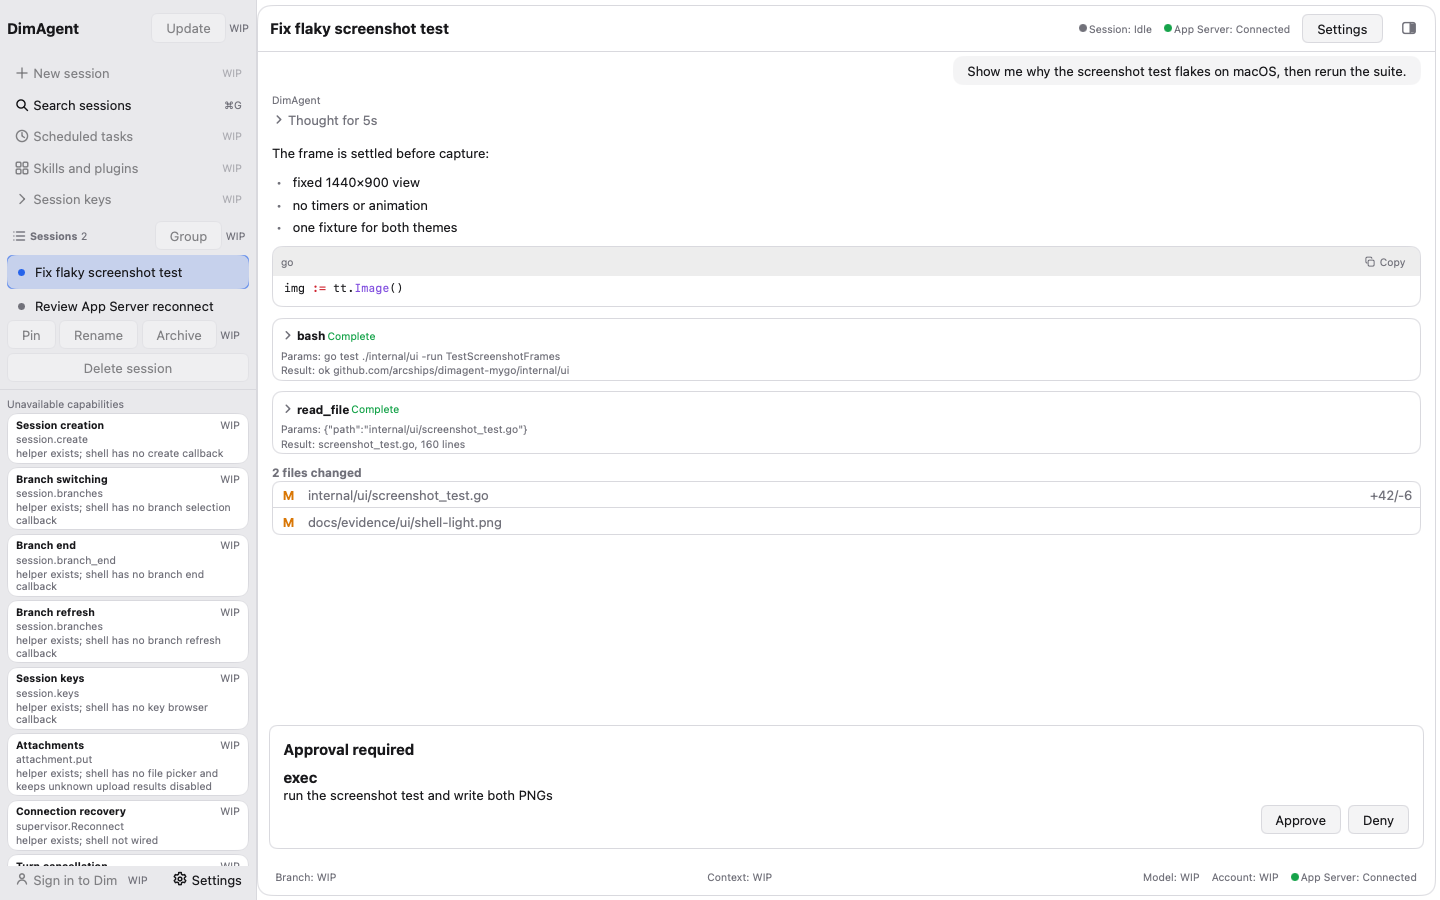
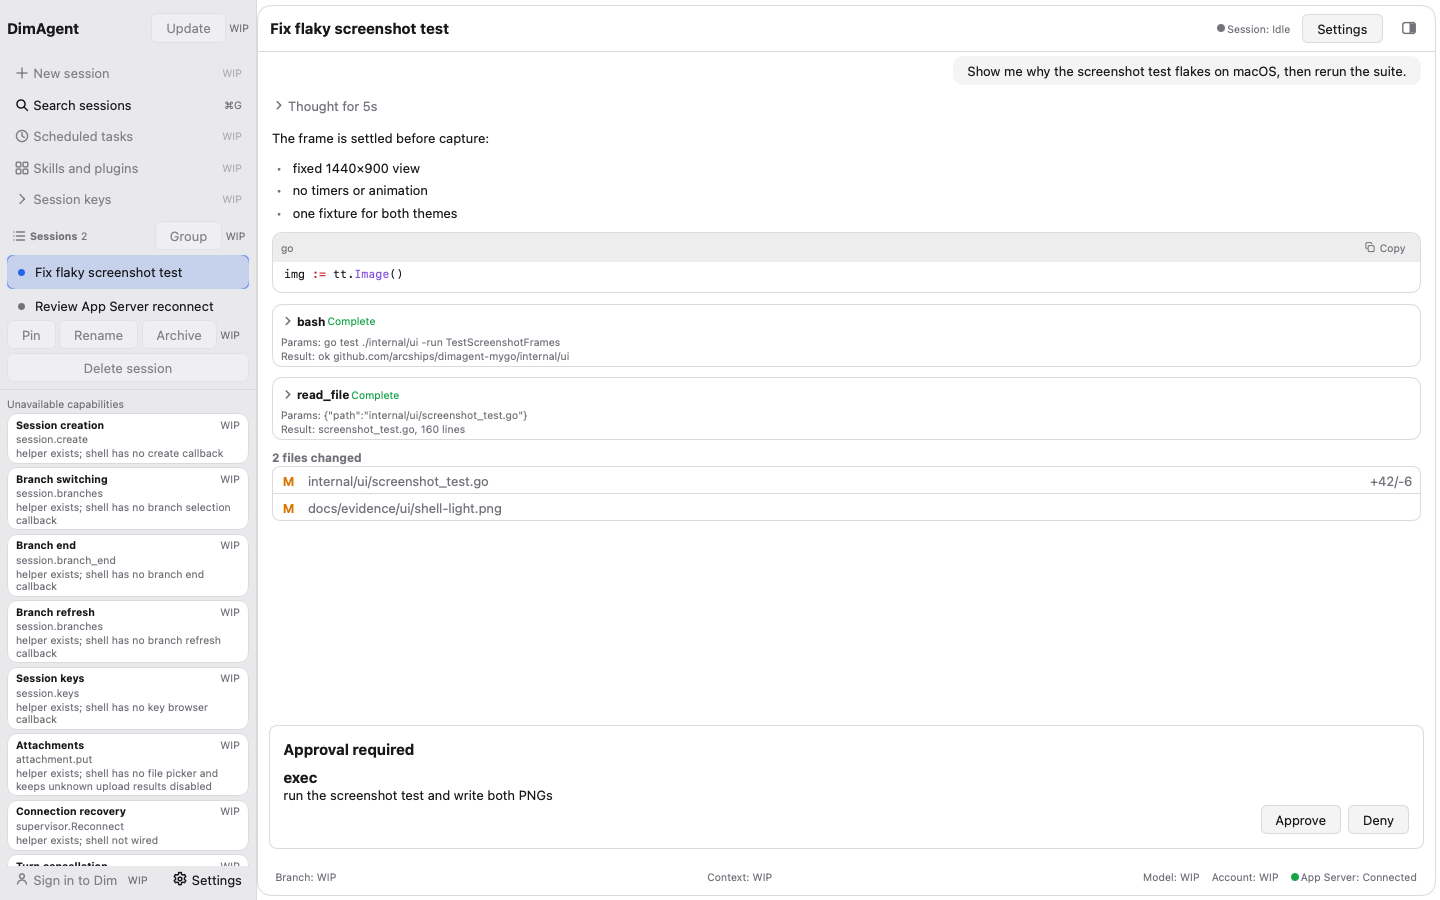
feat(ui): match the conversation chrome and assistant rows

diff --git a/internal/ui/timeline.go b/internal/ui/timeline.go
@@ -207,13 +207,13 @@ func userRow(c *ui.Context, k tokens, m Message) {
 	})
 }
 
-// assistantRow draws one assistant turn: the author line, then its blocks in
-// the projection's order. A row with no blocks falls back to Content as one
-// Markdown block, which is what a fixture and an adapter that keeps only text
-// hand it.
+// assistantRow draws one assistant turn: its blocks in the projection's order.
+// A row with no blocks falls back to Content as one Markdown block, which is
+// what a fixture and an adapter that keeps only text hand it. The reference
+// draws no author line on an assistant turn, so neither does this row; the
+// conversation list exposes the rendered text as the row's name.
 func assistantRow(c *ui.Context, k tokens, v TimelineView, m Message) {
 	ui.Column(c).Padding(k.rowPadY, k.timelinePadX).Gap(k.gap).Children(func() {
-		ui.Text(c, m.Author.String()).FontSize(k.smallSize).TextColor(k.mutedForeground).Unselectable()
 		if len(m.Blocks) == 0 {
 			if m.Content != "" {
 				renderMarkdownContent(c, k, m.Content, MarkdownOptions{})

diff --git a/internal/ui/header.go b/internal/ui/header.go
@@ -35,7 +35,10 @@ func header(c *ui.Context, k tokens, v HeaderView, a Actions) {
 	ui.Row(c).Gap(k.gapWide).Padding(k.toolbarPadY, k.toolbarPadX).AlignItems(ui.Center).
 		BorderWidth(0, 0, k.hairline, 0).BorderColor(k.border).Children(func() {
 		if v.HasSession {
-			ui.Text(c, v.Title).Bold().FontSize(k.titleSize)
+			// The reference's conversation bar is one line: a truncated title, the
+			// run state and the surface entries. Connection state lives in the
+			// status bar alone, so the title cannot be pushed onto a second line.
+			ui.Text(c, v.Title).Bold().FontSize(k.titleSize).SingleLine()
 			ui.Box(c).Grow(1)
 			runStatus(c, k, v)
 		} else {
@@ -43,7 +46,6 @@ func header(c *ui.Context, k tokens, v HeaderView, a Actions) {
 			// remaining entries at the toolbar's end.
 			ui.Box(c).Grow(1)
 		}
-		status(c, k, v)
 		// Stopping is the App Server's to do once the callback sends session.stop,
 		// so the entry belongs beside the status only while a turn still runs.
 		if v.HasSession && !v.Closed && v.Run == RunRunning {

diff --git a/internal/ui/conversation_test.go b/internal/ui/conversation_test.go
@@ -154,7 +154,7 @@ func TestAssistantRowRendersMarkdown(t *testing.T) {
 	if !ok {
 		t.Fatalf("assistant row is not exposed to accessibility, texts %q", tt.Texts())
 	}
-	if !strings.HasPrefix(row.Name, "DimAgent Result Some bold and inline code text.") {
+	if !strings.HasPrefix(row.Name, "Result Some bold and inline code text.") {
 		t.Errorf("assistant row name %q is not its rendered text", row.Name)
 	}
 	if strings.ContainsAny(row.Name, "#`*") {
